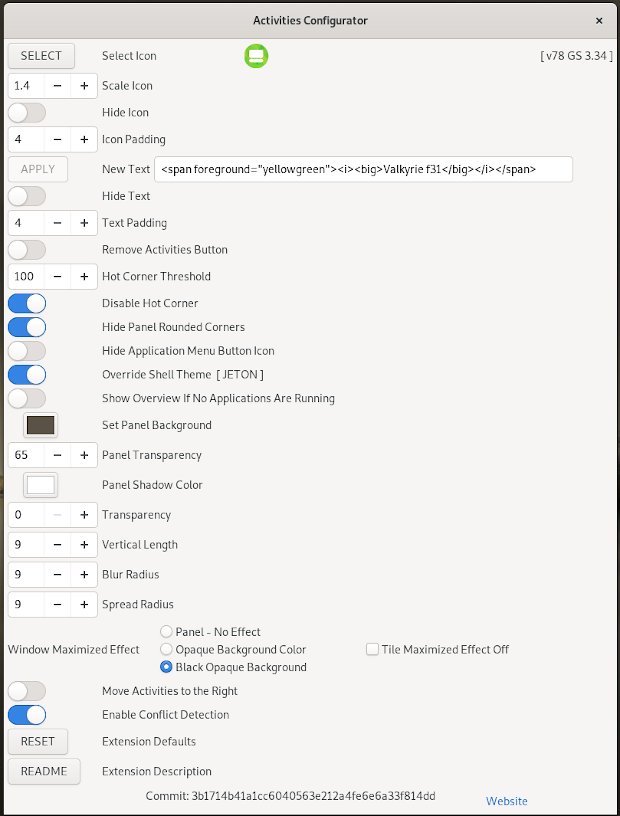
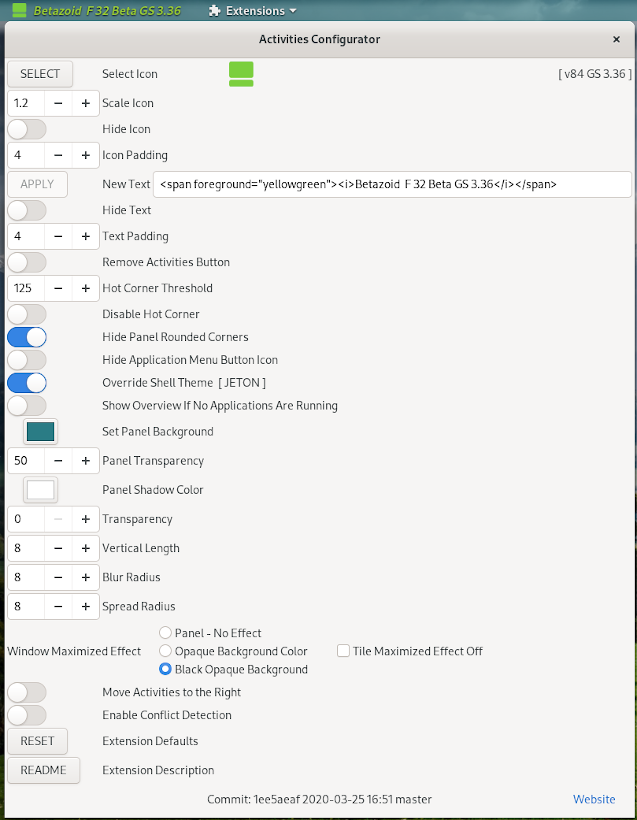
Updates for GS 3.36

Changed region(s): [[0.0, 0.0, 1.0, 1.0], [0.5516, 0.7659, 0.7661, 0.8272]]

diff --git a/DNDfeatures_336.html b/DNDfeatures_336.html
@@ -1,0 +1,78 @@
+<!DOCTYPE html>
+<html>
+<head>
+<title>Index</title>
+<meta http-equiv="content-type" content="text/html; charset=UTF-8">
+
+<!--[if lt IE 9]>
+<script src="http://html5shiv.googlecode.com/svn/trunk/html5.js">
+</script>
+<![endif]-->
+
+<style>
+html {height:100%;}
+body {font-family: Verdana, sans-serif; font-size:1.05em; background-color:#FFFFE0; height:100%;}
+footer { font-family: Verdana, sans-serif; margin:5px; font-size:0.7em; background-color:gray; font-weight:bold; color:white; width: 100%;}
+</style>
+</head>
+<body>
+<header>
+</header>
+<tr>
+<table width="100%">
+<tr>
+<td align="center"><h5><center><a href="https://github.com/nls1729/acme-code" target="_top">Github Repository</center></a></h5></td>
+<td align="center"><h5><center><a href="./index.html" target="_top">Github Projects</center></a></h5></td>
+<td align="center"><h5><center><a href="./DNDprefsimage_332.html" target="Right">Preferences Image</a></center></h5></td>
+<td align="center"><h5><center><a href="./DNDlatestupdate_332.html" target="Right">Latest Update</a></center></h5></td>
+</tr>
+</table>
+<table>
+<tr>
+	<td>
+		<h4>Do Not Disturb Button Extension Features</h4>
+       <ul>
+        <li>A panel button is provided to toggle on or off the receipt of notifications.</li>
+        <li>A keyboard shortcut can be assigned to perform the toggle function.</li>
+        <li>The <b>Available</b> and <b>Busy</b> panel button icon image can be selected by the user.</li>
+        <li>An optional count of active notifications is displayed next to the panel button.</li>
+        <li>The position of the button on the panel is a preference setting.</li>
+        <li>If the Busy State Override At Session Start is enabled the extension will start in the Busy state at session startup.
+        If the Busy State Override At Session Start is <b>not</b> enabled the extension will start in the Available state.</li>
+        <li>Notification sounds can be muted while in Busy State and un-muted when the state changes to Available.</li>
+        <li>A Busy State Timeout is provided.  
+        </li>
+       </ul>
+		 <p>
+		  When the extension is in the Busy state non-critical notifications are not displayed to
+		  the user as they are received.  The extension detects unseen notifications and activates
+		  the notification indicator dot <img  src="./images/DNDdot.png"> after the time display in the panel to alert the user
+		  to unseen notifications in the calendar notification area.
+		 </p>
+       <p>
+        The ability to set a busy status for notifications was removed from Gnome Shell 3.16.
+        The Do Not Disturb Button extension provides a means to set the presence status for notifications.
+        It does not provide integrated presence setting with Online Accounts.
+        A later release of the Gnome Shell may provide an improved means for providing this function.
+       </p>
+       <p>
+        The discussion of this issue on the Fedora Desktop List lead to the creation of this extension.
+       <a href="http://lists.fedoraproject.org/pipermail/desktop/2015-June/012417.html" target="_blank">"Do Not Disturb Thread"</a>....
+       <a href="http://lists.fedoraproject.org/pipermail/desktop/2015-June/012527.html" target="_blank">"Do Not Disturb Thread Continued"</a><br>
+       </p>
+       <p>
+        Ubuntu 17.10 introduced a modified version of Gnome  Shell to provide a 'Unity like experience'.
+        The Do Not Disturb Button Extension has been modified to be compatible with the Ubuntu default Ubuntu Session as of extension version 19.
+        </p>
+    </td>
+</tr>
+</table>
+<p>For Bugs, issues, comments please see <a href="./index.html" target="_top"><b>Bugs... etc.</b></a><br>
+<footer>
+		<br>
+		<center><a href="mailto:nls1729@gmail.com"><img src="images/mail-mark-unread-2.png" width="32" height="32" alt="">
+		nls1729@gmail.com</a></a></center>
+		<br>
+</footer>
+</body>
+</html>

diff --git a/DNDprefsimage_336.html b/DNDprefsimage_336.html
@@ -1,0 +1,68 @@
+<!DOCTYPE html>
+<html>
+<head>
+<title>ACME CODE</title>
+	<meta http-equiv="content-type" content="text/html; charset=UTF-8">
+	<style>
+	html {height:100%;}
+		body {font-family: Verdana, sans-serif; font-size:1.03em; background-color:#FFFFE0; height:96%;}
+		iframe {border:rgba(0,0,0,0.0); height:100%;}
+	</style>
+
+<!--[if lt IE 9]>
+<script src="http://html5shiv.googlecode.com/svn/trunk/html5.js">
+</script>
+<![endif]-->
+</head>
+<body>
+
+<div><center><img src="./images/DNDprefs_image.png" alt="PREFS" border="5"></img></center></div>
+<p>
+The <b>Do Not Disturb Button extension</b> defaults to mouse control. A mouse click on the panel button icon toggles between the two states of <b>Available</b>
+ or <b>Busy</b>.  The extension preferences provide
+a keyboard binding to also toggle the availability status.  When the state is set to busy notifications are not displayed with the exception of
+critical notifications.
+ The icon images <b>Available</b> <img src="./images/available-notifications-symbolic.svg"> and <b>Busy</b> <img src="./images/busy-notifications-symbolic.svg"> 
+ are user selectable using the Available and Busy buttons.  
+</p>
+<p>
+Notifications are queued in the Calendar notification area. All notifications may not be shown in the banner display.  Up to three notifications can
+be queued for display in the banner. Notifications queued for banner display are presented one by one when the button state is toggled from busy to available.
+Any additional notifications can be found in the Calendar notification area. An optional count of active notifications is displayed to the right of the Do Not Disturb Button.
+</p>
+<p>The default for the <b>shortcut</b> is Disabled.  When editing the shortcut a Backspace will disable the shortcut.
+A click under Edit accesses the entry area for a new short cut key or key combination.
+The entry area is accessible from the keyboard by typing tabs until the area below Edit is selected and then typing Return.
+Before assigning a shortcut, it is recommended to refer to <a href=https://wiki.gnome.org/Design/OS/KeyboardShortcuts>
+Gnome Keyboard Shortcuts
+</a> for determining keys and key combinations which are currently in use.  A key or key combination which is used by Gnome should not be assigned to this extension. 
+</p>
+<p>
+The <b>Busy State Override At Session Start</b> preference has been changed beginning with GS 3.36.</p>
+
+<p>If <b>Busy State Override At Session Start</b> is enabled the session will start in the <b>Busy</b> state.   
+If <b>Busy State Override At Session Start</b> is not enabled the session will start in the <b>Available</b> state.  If the session starts in the <b>Busy</b>
+state and the <b>Busy State Timeout</b> is enabled a <b>timeout</b> will begin.
+If the <b>Busy State Timeout</b> is enabled a change from the <b>Available</b> to the <b>Busy</b> state will start a <b>timeout</b>.  When a <b>timeout</b>
+ends the state changes to <b>Available</b>.
+</p>
+<p>
+The <b>Panel Button</b> will toggle the
+extension state between <b>Busy</b> and <b>Available</b> when clicked with the primary mouse button.
+The <b>Preference Tool</b> is displayed with a secondary mouse click of the <b>Panel Button</b>.<br>
+</p>
+<p>
+<b>Icons: </b>
+When a Busy State Timeout starts an icon is displayed, 🕛. Every 15 seconds the icon will advance displaying the following  sequence 🕒, 🕕, 🕘, 🕛 each minute until the timeout is completed.
+
+When the <b>Busy State Timeout</b> is enabled by checking the
+<b>Enable Checkbox</b> the duration of the <b>timeout</b> is calculated and
+displayed along with an icon, 🕑.
+</p>
+
+<p>
+The <b>Notification Sound</b> preference provides an option to mute all sounds in the <b>Busy</b> state and the option to un-mute sounds when the state changes from <b>Busy</b> to
+<b>Available</b>.<br><br><br><br>
+</p>
+</body>
+</html>

diff --git a/index01.html b/index01.html
@@ -27,7 +27,7 @@ footer { font-family: Verdana, sans-serif; margin:5px; font-size:0.7em; backgrou
 		<h4><center>Gnome Shell Extensions</center></h4>
 		<h4><center><a href="https://github.com/nls1729/acme-code" target="unknown">Repository nls1729 / acme-code</a></center></h4>
 		<h4><center><a href="./activities_config.html" target="_top">Activities Configurator</a></center></h4>
-		<h4><center><a href="./donotdisturb_button_332.html" target="_top">Do Not Disturb Button</a></center></h4>
+		<h4><center><a href="./donotdisturb_button_336.html" target="_top">Do Not Disturb Button</a></center></h4>
 		<h4><center><a href="./extension-reloader.html" target="_top">Gnome Shell Extension Reloader</a></center></h4>
 		<h4><center><a href="./max-window-effect.html" target="Content">Maximum Window Effect</a></center></h4>
 		<h4><center>Additional Resources</center></h4>

diff --git a/extension_reloader_zip.html b/extension_reloader_zip.html
@@ -22,6 +22,9 @@
 <p>With the <strong>secondary mouse button</strong>, click (v)ersion number in first column, then open link in a new tab or window to download.</p>
 <table>
 <tr><td><h3>Gnome Shell Extension Reloader</h3></td><td>&nbsp&nbsp&nbsp</td><td><h3>Gnome Shell Version(s)</h3></td></tr>
+
+<tr><td><a href="https://extensions.gnome.org/review/download/15025.shell-extension.zip">v11</a></td><td>&nbsp&nbsp&nbsp</td><td><strong>3.36</strong></td></tr>
+
 <tr><td><a href="https://extensions.gnome.org/review/download/12235.shell-extension.zip">v10</a></td><td>&nbsp&nbsp&nbsp</td><td><strong>3.34</strong></td></tr>
 <tr><td><a href="https://extensions.gnome.org/review/download/9649.shell-extension.zip">v9</a></td><td>&nbsp&nbsp&nbsp</td><td><strong>3.32</strong></td></tr>
 

diff --git a/DNDlatestupdate_332.html b/DNDlatestupdate_332.html
@@ -19,7 +19,11 @@ Update or install the Do Not Disturb Button extension at the Gnome Shell Extensi
 Download the zip-file for the Do Not Disturb Button extension from the Gnome Shell Extension Website.
 </a>
 </h5>
-
+<h4>Update Version 36 GS 3.36</h4>
+<p>
+Provides support for GS 3.36.<br>
+The preferences have been changed to hopefully be more user friendly.
+</p>
 
 <h4>Update Version 35 GS 3.34</h4>
 <p>

diff --git a/activities_config_zip.html b/activities_config_zip.html
@@ -28,7 +28,7 @@
 <td><h3>Gnome Shell Version(s)</h3></td>
 
 </tr>
-<td><a href="https://extensions.gnome.org/review/download/14603.shell-extension.zip">v80</a></td><td>&nbsp&nbsp&nbsp</td>
+<td><a href="https://extensions.gnome.org/review/download/14977.shell-extension.zip">v84</a></td><td>&nbsp&nbsp&nbsp</td>
 <td><strong>3.36</strong></td>
 </tr>
 

diff --git a/latestupdate.html b/latestupdate.html
@@ -18,7 +18,7 @@ Install Activities Configurator from the Gnome Shell Extension Website
 Download the zip-file for the Activities Configurator extension from the Gnome Shell Extension Website.
 </a>
 
-<h4>Update Version 80 GS 3.36</h4>
+<h4>Update Version 84 GS 3.36</h4>
 <p>
 Updated for latest Gnome Shell version.
 </p>

diff --git a/GSERlatestupdate.html b/GSERlatestupdate.html
@@ -20,6 +20,11 @@ Download the zip-file for the Gnome Shell Extension Reloader extension from the 
 </a>
 </h5>
 
+<h4>Version 11 GS 3.36</h4>
+<p>
+Updated for Gnome Shell version 3.36.
+</p>
+
 <h4>Version 10 GS 3.34</h4>
 <p>
 Corrected deprecated actor.actor instances. Changed logic to eliminate reloads

diff --git a/index.html b/index.html
@@ -1,4 +1,4 @@
-<!DOCTYPE html>
+
 <html lang="en">
 <head>
 	<title>ACME CODE</title>
